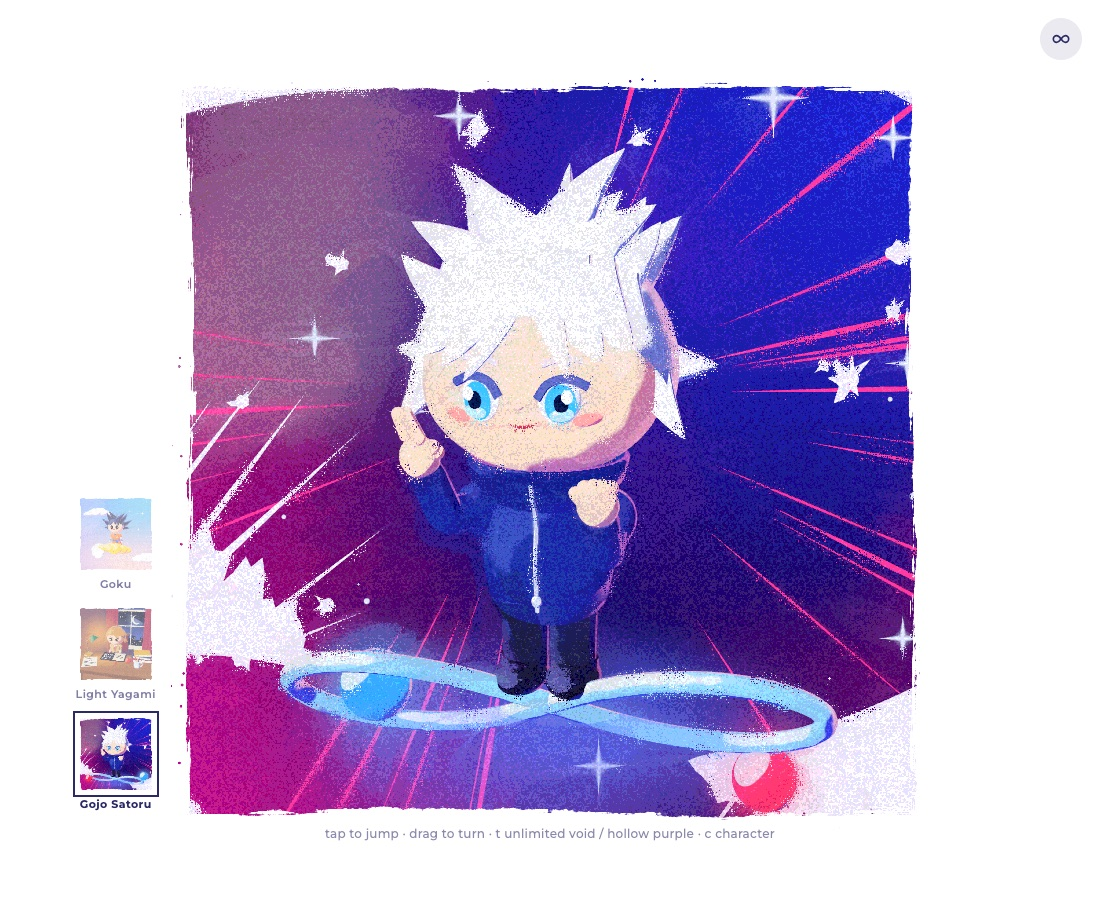
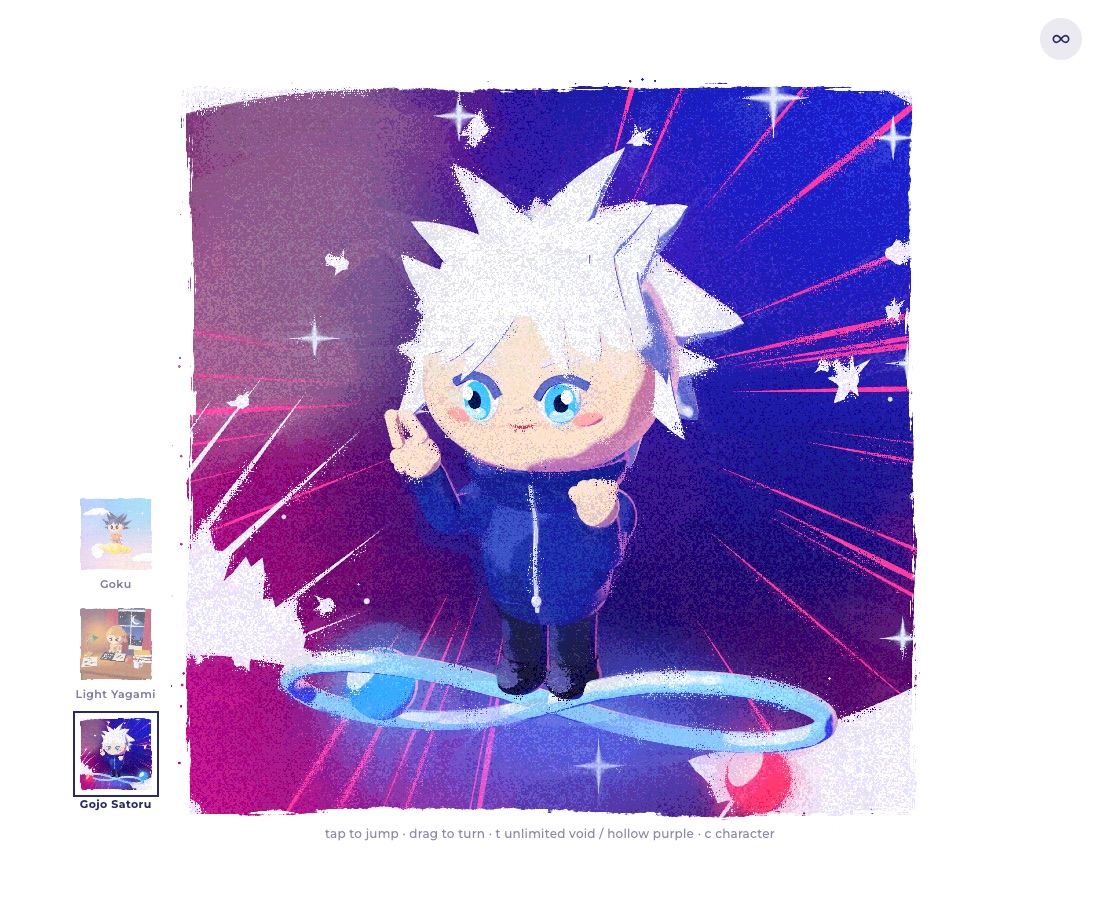
fix(chibi-jelly-painting): polish Gojo and restore the stroke direction flip

diff --git a/chibi-jelly-painting/src/scene/gojo.js b/chibi-jelly-painting/src/scene/gojo.js
@@ -1,9 +1,10 @@
 import {
-    Group, Mesh, SphereGeometry, CapsuleGeometry, CylinderGeometry, PlaneGeometry, TubeGeometry, TorusGeometry, LatheGeometry,
-    ShapeGeometry, Shape, Vector2, Vector3, CatmullRomCurve3, Sprite, SpriteNodeMaterial, MeshBasicNodeMaterial
+    Group, Mesh, SphereGeometry, CapsuleGeometry, CylinderGeometry, PlaneGeometry, TubeGeometry, LatheGeometry,
+    ShapeGeometry, Shape, Vector2, Vector3, CatmullRomCurve3, Sprite, SpriteNodeMaterial, MeshBasicNodeMaterial, Color
 } from 'three/webgpu'
+import { uniform, normalView, positionLocal, mix, smoothstep, mx_noise_float } from 'three/tsl'
 
-import { paintedMaterial } from '../materials/painted.js'
+import { paintedMaterial, light } from '../materials/painted.js'
 import {
     mesh, v3, sphereDir, skullRadius, skullGeometry, orient, spikeGeometry, onTorso, stroke,
     TORSO, TORSO_DEPTH, HAIR_RADIUS, UP, Z, deg
@@ -91,22 +92,18 @@ function buildHair( head, mat )
     add( at( - 100, 8 ), v3( - 0.8, - 0.3, - 0.25 ), 0.38, 0.16, 0.28, UP )
     add( at( 100, 6 ), v3( 0.8, - 0.35, - 0.25 ), 0.38, 0.16, 0.28, UP )
 
-    // the back: shorter layers that flick outward
-    const back = { flat: 0.45 }
-    add( at( 180, 62 ), v3( 0, 0.8, - 0.9 ), 0.64, 0.24, 0.22, UP, back )
-    add( at( - 140, 42 ), v3( - 0.8, 0.5, - 0.9 ), 0.62, 0.24, 0.26, UP, back )
-    add( at( 140, 42 ), v3( 0.8, 0.46, - 0.9 ), 0.62, 0.24, 0.26, UP, back )
-    add( at( 180, 22 ), v3( 0, 0.05, - 1 ), 0.58, 0.24, 0.28, UP, back )
-    add( at( - 150, 0 ), v3( - 0.6, - 0.4, - 1 ), 0.5, 0.22, 0.3, UP, back )
-    add( at( 150, 0 ), v3( 0.6, - 0.44, - 1 ), 0.5, 0.22, 0.3, UP, back )
-    add( at( 180, - 24 ), v3( 0, - 0.8, - 0.9 ), 0.44, 0.2, 0.26, UP, back )
-    add( at( 160, 76 ), v3( 0.4, 1, - 0.5 ), 0.5, 0.18, 0.26, RIGHT, back )
-    add( at( - 160, 76 ), v3( - 0.4, 1, - 0.5 ), 0.5, 0.18, 0.26, LEFT, back )
-    add( at( 118, 62 ), v3( 0.9, 0.8, - 0.5 ), 0.48, 0.18, 0.26, UP, back )
-    add( at( - 118, 62 ), v3( - 0.9, 0.8, - 0.5 ), 0.48, 0.18, 0.26, UP, back )
-    add( at( 180, 42 ), v3( 0, 0.3, - 1 ), 0.5, 0.2, 0.26, UP, back )
-    add( at( - 168, 10 ), v3( - 0.7, - 0.1, - 1 ), 0.42, 0.18, 0.26, UP, back )
-    add( at( 168, 10 ), v3( 0.7, - 0.1, - 1 ), 0.42, 0.18, 0.26, UP, back )
+    // The back: rows of locks that lie down along the skull and only flick out
+    // at the tips, so from behind it reads as layered hair rather than a burr.
+    const lock = ( yaw, pitch, length, radius, out ) =>
+    {
+        const n = at( yaw, pitch )
+        const down = UP.clone().sub( n.clone().multiplyScalar( n.y ) ).normalize().negate()
+        add( n, down.add( n.clone().multiplyScalar( out ) ), length, radius, 0.2, n, { inset: 0.55, flat: 0.42, fullness: 0.7 } )
+    }
+    for( const yaw of [ 122, 148, 172, - 164, - 138 ] ) lock( yaw, 66, 0.56, 0.24, 0.75 )
+    for( const yaw of [ 112, 136, 160, - 176, - 150, - 124 ] ) lock( yaw, 34, 0.54, 0.24, 0.6 )
+    for( const yaw of [ 126, 152, 178, - 154, - 128 ] ) lock( yaw, 2, 0.46, 0.22, 0.5 )
+    for( const yaw of [ 140, 166, - 168, - 142 ] ) lock( yaw, - 24, 0.36, 0.2, 0.35 )
 
     // Bangs lie on the forehead (tangent to the cap, nudged inward so the tips
     // hug the skin), a few of them hanging between the eyes.
@@ -240,8 +237,11 @@ function buildArm( side, kind, parent, m )
 
     if( kind === 'sign' )
     {
-        // index and middle finger up and a little apart, the others folded into the palm and the thumb over them
-        for( const [ x, length, tilt ] of [ [ - 0.034, 0.11, 0.14 ], [ 0.036, 0.125, - 0.12 ] ] )
+        // Index and middle finger up and apart, the others folded into the palm and
+        // the thumb over them. The hand is turned palm-out so both fingers stand side
+        // by side on screen instead of one hiding the other.
+        hand.rotation.y = 2.5
+        for( const [ x, length, tilt ] of [ [ - 0.04, 0.11, 0.2 ], [ 0.042, 0.125, - 0.18 ] ] )
         {
             const finger = mesh( new CapsuleGeometry( 0.03, length, 6, 10 ), m.skin, hand, v3( x, - 0.07 - length / 2 - 0.03, 0.01 ) )
             finger.rotation.z = tilt
@@ -365,12 +365,37 @@ export function createInfinity()
     }
     const blue = orbMaker( { color: '#46a8ff', shade: '#2036d0', highlight: '#e4f7ff', glow: '#5cb8ff', size: 0.2 } )
     const red = orbMaker( { color: '#ff4060', shade: '#a00e2c', highlight: '#ffd6da', glow: '#ff5070', size: 0.18 } )
-    const purple = orbMaker( { color: '#a24cff', shade: '#3c0fa8', highlight: '#f6e4ff', glow: '#b45cff', size: 0.3 } )
-    const ring = mesh( new TorusGeometry( 0.46, 0.016, 8, 48 ), paintedMaterial( { color: '#f0dcff', unlit: true } ), purple.orb )
+
+    // Hollow Purple is energy, not a ball: white-hot where it faces you, deep
+    // violet at the rim, churning, with sparks thrown around it.
+    const purple = { orb: new Group() }
+    group.add( purple.orb )
+    const energy = new MeshBasicNodeMaterial()
+    const facing = normalView.z.clamp( 0, 1 ).add( mx_noise_float( positionLocal.mul( 7 ).add( light.time.mul( 1.4 ) ) ).mul( 0.22 ) )
+    energy.colorNode = mix(
+        mix( uniform( new Color( '#3a0c8e' ) ), uniform( new Color( '#a84cff' ) ), smoothstep( 0.05, 0.5, facing ) ),
+        uniform( new Color( '#fbeaff' ) ),
+        smoothstep( 0.62, 0.95, facing )
+    )
+    purple.ball = mesh( new SphereGeometry( 0.3, 32, 24 ), energy, purple.orb )
+    const aura = new Sprite( glowMaterial( SpriteNodeMaterial, '#b45cff', { strength: 0.9, power: 1.3 } ) )
+    aura.scale.setScalar( 1.6 )
+    purple.orb.add( aura )
+
+    const sparkMaterial = paintedMaterial( { color: '#f4dcff', unlit: true } )
+    const sparks = Array.from( { length: 9 }, ( _, i ) =>
+    {
+        const spark = mesh( new SphereGeometry( 1, 10, 8 ), sparkMaterial, purple.orb )
+        spark.scale.setScalar( 0.022 + ( i % 3 ) * 0.012 )
+        const axis = v3( Math.sin( i * 2.4 ), Math.cos( i * 1.7 ), Math.sin( i * 3.1 + 1 ) ).normalize()
+        const start = v3( 1, 0, 0 ).cross( axis ).normalize()
+        return { spark, axis, start, radius: 0.38 + ( i % 4 ) * 0.05, speed: 2.2 + ( i % 5 ) * 0.6 }
+    } )
 
     // Hollow Purple hangs over the fingertips of his raised hand once Blue and Red have met
     const MERGE = v3( - 0.98, 2.12, 0.5 )
     const here = new Vector3()
+    const swirlOffset = new Vector3()
 
     function update( t )
     {
@@ -382,7 +407,7 @@ export function createInfinity()
             // they spiral in on each other and settle into one point
             const swirl = ( 1 - m ) * 0.22
             const a = t * 5 + phase
-            orb.position.lerpVectors( here, MERGE, m ).add( v3( Math.cos( a ) * swirl, Math.sin( a ) * swirl, 0 ) )
+            orb.position.lerpVectors( here, MERGE, m ).add( swirlOffset.set( Math.cos( a ) * swirl, Math.sin( a ) * swirl, 0 ) )
             orb.scale.setScalar( 1 - m * 0.55 )
             ball.rotation.y = t
         }
@@ -391,7 +416,8 @@ export function createInfinity()
         purple.orb.position.copy( MERGE )
         purple.orb.position.y += Math.sin( t * 1.6 ) * 0.04
         purple.orb.scale.setScalar( Math.max( grow, 1e-3 ) * ( 1 + Math.sin( t * 6 ) * 0.04 ) )
-        ring.rotation.set( 1.15, 0.3, t * 1.6 )
+        for( const { spark, axis, start, radius, speed } of sparks )
+            spark.position.copy( start ).applyAxisAngle( axis, t * speed ).multiplyScalar( radius )
         purple.orb.visible = grow > 0.002
     }
 

diff --git a/chibi-jelly-painting/src/post/paintFilter.js b/chibi-jelly-painting/src/post/paintFilter.js
@@ -268,7 +268,8 @@ export function createPaintFilter( renderer, scene, camera, settings = { ...pain
             {
                 const t = float( loop[ name ] ).div( STEPS )
                 const d = directionAt( pos ).toVar()
-                If( dot( d, prev ).lessThan( 0 ), () => d.assign( d.negate() ) )
+                // a block body: an expression body would be taken as a return value and dropped
+                If( dot( d, prev ).lessThan( 0 ), () => { d.assign( d.negate() ) } )
                 pos.addAssign( d.mul( u.stepLength ) )
                 prev.assign( d )
 

diff --git a/chibi-jelly-painting/README.md b/chibi-jelly-painting/README.md
@@ -85,11 +85,11 @@ Keys: `space`/`j` jump · `w` wave · `t` mood · `c` next character · `1` Goku
 - `src/scene/gojo.js` — Gojo Satoru: messy snow-white hair (tufts on the crown, bangs
   that hang between his eyes), pale blue Six Eyes with a lighter rim and a soft lash
   line, a dark navy jacket zipped up to a high collar that flares around his chin, and
-  longer sleeves so one hand can make the two-finger sign beside his cheek while the
+  longer sleeves so one hand can make the two-finger sign (palm out) beside his cheek while the
   other grips his collar. In place of the cloud he hovers over an Infinity sign (a
   lemniscate tube) that his Blue and Red orbs run around. In the Hollow Purple mood
-  the two orbs spiral together and become a purple orb with a ring over his raised
-  hand. Reference: the JJK wiki and the Gojo Nendoroid.
+  the two orbs spiral together into a churning purple orb of energy that throws
+  sparks over his raised hand. Reference: the JJK wiki and the Gojo Nendoroid.
 - `src/scene/void.js` — his backdrop: white ink waves with flung drops and thin speed
   lines, flat shapes that always face the camera so orbiting never shows them edge-on.
   Their colours (and the `purple` mix that drives the orbs) are theme uniforms.
